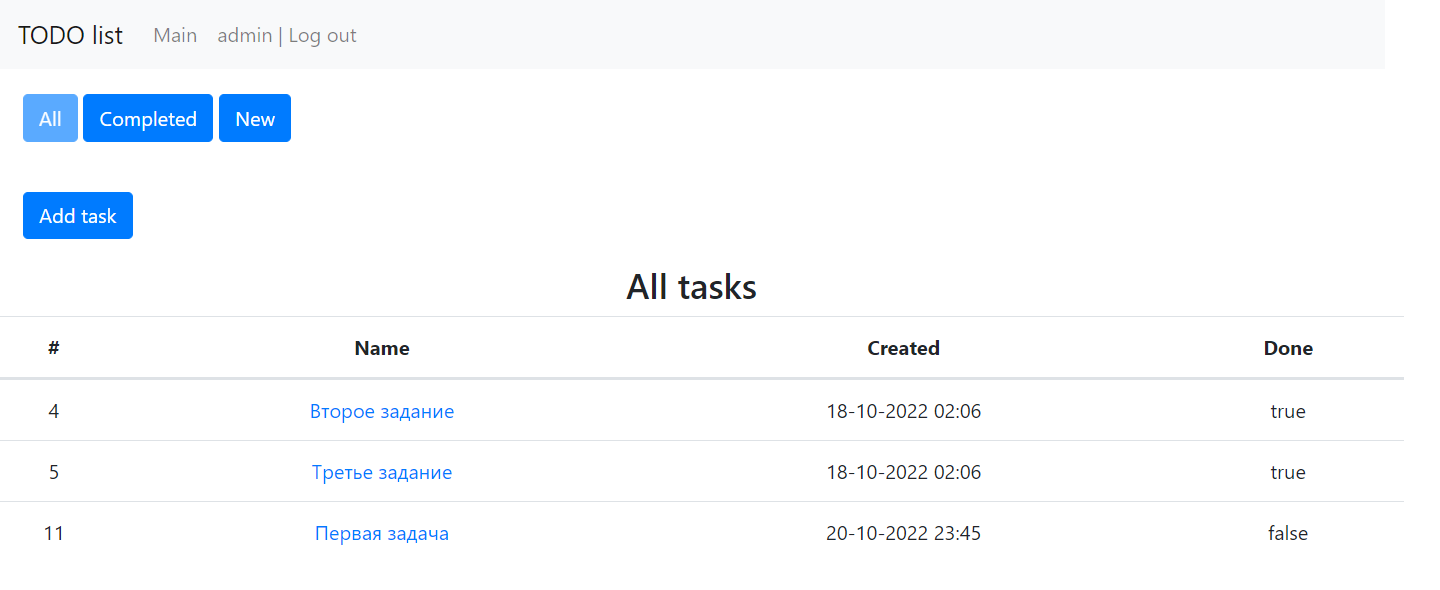
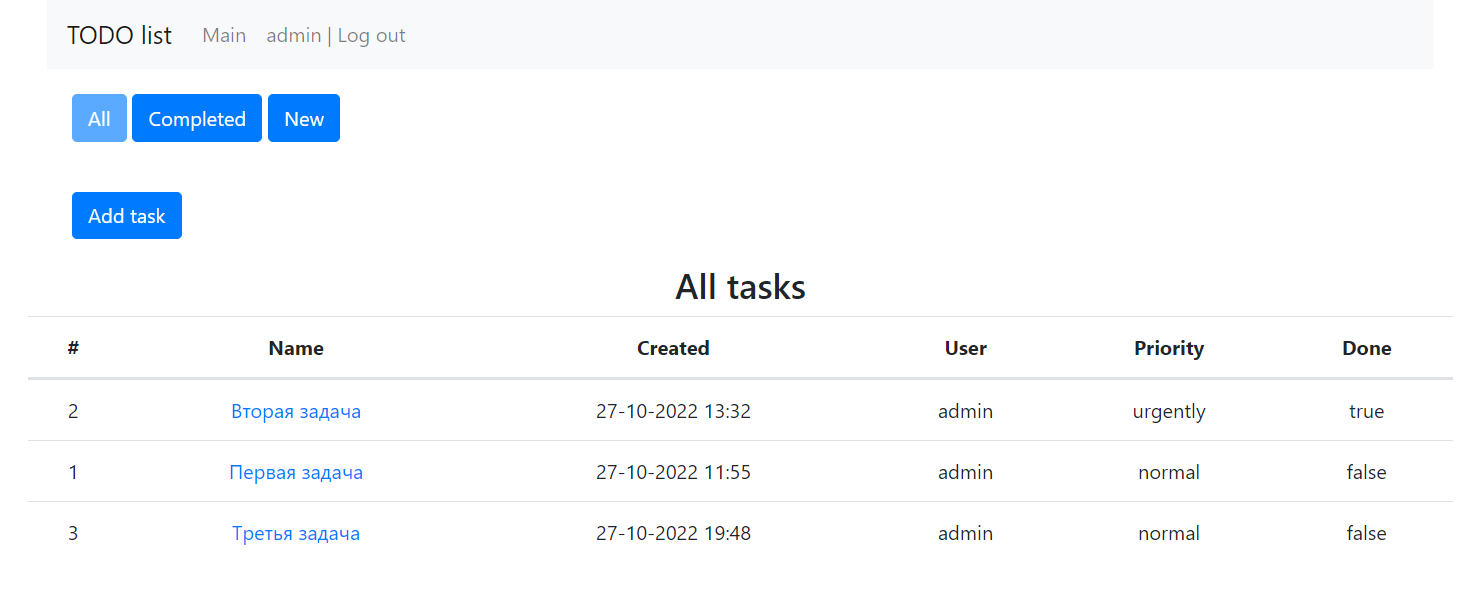
LazyInitializationexception

diff --git a/src/main/resources/templates/updateTask.html b/src/main/resources/templates/updateTask.html
@@ -54,6 +54,12 @@
                         <label for="description">Description</label>
                         <input type="text" class="form-control" name="description" id="description" th:field="*{description}">
                     </div>
+                    <div class="form-group">
+                        <label for="priority.id">Priority</label>
+                        <select class="form-control" id="priority.id" name="priority.id">
+                            <option th:each="priority : ${priorities}" th:value="${priority.id}" th:text="${priority.name}" th:selected="${priority.id==(task.priority != null ? task.priority.id : 0)}"></option>
+                        </select>
+                    </div>
                     <button type="submit" class="btn btn-primary">Update</button>
                 </form>
             </div>

diff --git a/src/main/resources/templates/index.html b/src/main/resources/templates/index.html
@@ -80,6 +80,7 @@
             <th scope="col" class="text-center">Name</th>
             <th scope="col" class="text-center">Created</th>
             <th scope="col" class="text-center">User</th>
+            <th scope="col" class="text-center">Priority</th>
             <th scope="col" class="text-center">Done</th>
         </tr>
         </thead>
@@ -91,6 +92,7 @@
             </td>
             <td th:text="${#temporals.format(task.created, 'dd-MM-yyyy HH:mm')}" class="text-center"/>
             <td th:text="${task.user != null} ? ${task.user.name} : 'null value!'" class="text-center"/>
+            <td th:text="${task.priority != null} ? ${task.priority.name} : 'null value!'" class="text-center"/>
             <td th:text="${task.done}" class="text-center"/>
         </tr>
         </tbody>

diff --git a/src/main/resources/templates/task.html b/src/main/resources/templates/task.html
@@ -57,12 +57,14 @@
             <tr>
                 <th scope="col" class="text-center">Description</th>
                 <th scope="col" class="text-center">Created</th>
+                <th scope="col" class="text-center">Priority</th>
                 <th scope="col" class="text-center">Done</th>
             </tr>
             </thead>
             <tbody>
             <td th:text="${task.description}" class="text-center"/>
             <td th:text="${#temporals.format(task.created, 'dd-MM-yyyy HH:mm')}" class="text-center"/>
+            <td th:text="${task.priority != null} ? ${task.priority.name} : 'null value!'" class="text-center"/>
             <td th:text="${task.done}" class="text-center"/>
             </tbody>
         </table>

diff --git a/src/main/resources/templates/addTask.html b/src/main/resources/templates/addTask.html
@@ -54,6 +54,12 @@
                         <label for="description">Description</label>
                         <input type="text" class="form-control" name="description" id="description">
                     </div>
+                    <div class="form-group">
+                        <label for="priority.id">Priority</label>
+                        <select class="form-control" id="priority.id" name="priority.id">
+                            <option th:each="priority : ${priorities}" th:value="${priority.id}" th:text="${priority.name}"></option>
+                        </select>
+                    </div>
                     <button type="submit" class="btn btn-primary">Save</button>
                 </form>
             </div>

diff --git a/src/main/java/ru/job4j/todo/controller/TaskController.java b/src/main/java/ru/job4j/todo/controller/TaskController.java
@@ -3,12 +3,10 @@ package ru.job4j.todo.controller;
 import lombok.AllArgsConstructor;
 import org.springframework.stereotype.Controller;
 import org.springframework.ui.Model;
-import org.springframework.web.bind.annotation.GetMapping;
-import org.springframework.web.bind.annotation.ModelAttribute;
-import org.springframework.web.bind.annotation.PathVariable;
-import org.springframework.web.bind.annotation.PostMapping;
+import org.springframework.web.bind.annotation.*;
 import ru.job4j.todo.model.Task;
 import ru.job4j.todo.model.User;
+import ru.job4j.todo.service.PriorityService;
 import ru.job4j.todo.service.TaskService;
 import ru.job4j.todo.utilits.UserSession;
 
@@ -21,18 +19,23 @@ public class TaskController {
 
     public TaskService taskService;
 
+    public PriorityService priorityService;
+
     @GetMapping("/addTask")
     public String addTask(Model model, HttpSession session) {
         User currentUser = UserSession.user(session);
         model.addAttribute("user", currentUser);
+        model.addAttribute("priorities", priorityService.findAll());
         model.addAttribute("task",
-                new Task(0, "Название", "Описание", LocalDateTime.now(), false, currentUser));
+                new Task(0, "Название", "Описание", LocalDateTime.now(), false, currentUser, null));
         return "addTask";
     }
 
     @PostMapping("/createTask")
-    public String createTask(@ModelAttribute Task task, HttpSession session) {
+    public String createTask(@ModelAttribute Task task, @RequestParam("priority.id") int priorityId,
+                             HttpSession session) {
         task.setCreated(LocalDateTime.now());
+        task.setPriority(priorityService.findById(priorityId));
         task.setUser(UserSession.user(session));
         taskService.add(task);
         return "redirect:/index";
@@ -82,11 +85,14 @@ public class TaskController {
     public String update(Model model, HttpSession session, @PathVariable("taskID") int taskID) {
         model.addAttribute("task", taskService.findById(taskID));
         model.addAttribute("user", UserSession.user(session));
+        model.addAttribute("priorities", priorityService.findAll());
         return "updateTask";
     }
 
     @PostMapping("/updateTask")
-    public String updateTask(Model model, HttpSession session, @ModelAttribute Task task) {
+    public String updateTask(Model model, HttpSession session, @RequestParam("priority.id") int priorityId,
+                             @ModelAttribute Task task) {
+        task.setPriority(priorityService.findById(priorityId));
         var rsl = taskService.update(task);
         if (rsl) {
             return String.format("redirect:/task/%s", task.getId());

diff --git a/src/main/java/ru/job4j/todo/store/TaskStore.java b/src/main/java/ru/job4j/todo/store/TaskStore.java
@@ -15,15 +15,17 @@ import java.util.Map;
 public class TaskStore {
     private final CrudRepository crudRepository;
 
-    private final static String SELECT = "SELECT t FROM Task t WHERE user = :fUser";
+    private final static String SELECT = "SELECT t FROM Task t JOIN FETCH t.priority WHERE t.user = :fUser";
     private final static String UPDATE = "UPDATE Task %s WHERE id = :fId";
     private final static String DELETE = "DELETE Task WHERE id = :fId";
-    private final static String SELECT_TRUE_DONE = String.format("%s AND done = true", SELECT);
-    private final static String SELECT_FALSE_DONE = String.format("%s AND done = false", SELECT);
+    private final static String SELECT_TRUE_DONE = String.format("%s AND t.done = true", SELECT);
+    private final static String SELECT_FALSE_DONE = String.format("%s AND t.done = false", SELECT);
+    private final static String SELECT_BY_ID = "SELECT t FROM Task t JOIN FETCH t.priority WHERE t.id = :fId";
     private final static String UPDATE_COMPLETE = String.format(UPDATE, "SET done = :fDone");
     private final static String UPDATE_NAME = String.format(UPDATE, """
                                                        SET name = :fName,
-                                                       description = :fDescription
+                                                       description = :fDescription,
+                                                       priority = :fPriority
                                                        """);
 
     public void add(Task task) {
@@ -43,7 +45,7 @@ public class TaskStore {
     }
 
     public Task findById(int taskId) {
-        return crudRepository.tx(session -> session.get(Task.class, taskId));
+        return crudRepository.optional(SELECT_BY_ID, Task.class, Map.of("fId", taskId)).orElse(null);
     }
 
     public List<Task> find(String query, User user) {
@@ -68,6 +70,7 @@ public class TaskStore {
             crudRepository.run(UPDATE_NAME,
                     Map.of("fName", task.getName(),
                             "fDescription", task.getDescription(),
+                            "fPriority", task.getPriority(),
                             "fId", task.getId()));
         } catch (Exception e) {
             rsl = false;

diff --git a/src/main/java/ru/job4j/todo/ToDoRun.java b/src/main/java/ru/job4j/todo/ToDoRun.java
@@ -1,0 +1,36 @@
+package ru.job4j.todo;
+
+import org.hibernate.Session;
+import org.hibernate.SessionFactory;
+import org.hibernate.boot.MetadataSources;
+import org.hibernate.boot.registry.StandardServiceRegistry;
+import org.hibernate.boot.registry.StandardServiceRegistryBuilder;
+import ru.job4j.todo.model.Task;
+
+import java.util.List;
+
+public class ToDoRun {
+    public static void main(String[] args) {
+        final StandardServiceRegistry registry = new StandardServiceRegistryBuilder()
+                .configure().build();
+        try {
+            SessionFactory sf = new MetadataSources(registry).buildMetadata().buildSessionFactory();
+            var stored = listOf("from Task t join fetch t.priority", Task.class, sf);
+            for (Task task : stored) {
+                System.out.println(task.getPriority());
+            }
+        }  catch (Exception e) {
+            e.printStackTrace();
+        } finally {
+            StandardServiceRegistryBuilder.destroy(registry);
+        }
+    }
+
+    public static <T> List<T> listOf(String query, Class<T> model, SessionFactory sf) {
+        Session session = sf.openSession();
+        var rsl = session.createQuery(query, model)
+                .getResultList();
+        session.close();
+        return rsl;
+    }
+}

diff --git a/src/main/java/ru/job4j/todo/store/PriorityStore.java b/src/main/java/ru/job4j/todo/store/PriorityStore.java
@@ -1,0 +1,29 @@
+package ru.job4j.todo.store;
+
+import lombok.AllArgsConstructor;
+import net.jcip.annotations.ThreadSafe;
+import org.springframework.stereotype.Repository;
+import ru.job4j.todo.model.Priority;
+import ru.job4j.todo.model.Task;
+
+import java.util.List;
+import java.util.Map;
+
+@ThreadSafe
+@Repository
+@AllArgsConstructor
+public class PriorityStore {
+    private final CrudRepository crudRepository;
+
+    private final static String SELECT = "SELECT p FROM Priority p";
+    private final static String SELECT_BY_ID = "SELECT p FROM Priority p WHERE p.id = :fId";
+
+    public List<Priority> findAll() {
+        return crudRepository.query(SELECT, Priority.class);
+    }
+
+    public Priority findById(int priorityId) {
+        return crudRepository.optional(SELECT_BY_ID, Priority.class,
+                Map.of("fId", priorityId)).orElse(null);
+    }
+}

diff --git a/src/main/java/ru/job4j/todo/service/PriorityService.java b/src/main/java/ru/job4j/todo/service/PriorityService.java
@@ -1,0 +1,22 @@
+package ru.job4j.todo.service;
+
+import lombok.AllArgsConstructor;
+import org.springframework.stereotype.Service;
+import ru.job4j.todo.model.Priority;
+import ru.job4j.todo.store.PriorityStore;
+
+import java.util.List;
+
+@Service
+@AllArgsConstructor
+public class PriorityService {
+    private final PriorityStore priorityStore;
+
+    public List<Priority> findAll() {
+        return priorityStore.findAll();
+    }
+
+    public Priority findById(int priorityId) {
+        return priorityStore.findById(priorityId);
+    }
+}

diff --git a/src/main/java/ru/job4j/todo/model/Priority.java b/src/main/java/ru/job4j/todo/model/Priority.java
@@ -1,0 +1,22 @@
+package ru.job4j.todo.model;
+
+import lombok.Data;
+import lombok.EqualsAndHashCode;
+
+import javax.persistence.*;
+
+@Data
+@EqualsAndHashCode(onlyExplicitlyIncluded = true)
+@Entity
+@Table(name = "priorities")
+public class Priority {
+
+    @Id
+    @GeneratedValue(strategy = GenerationType.IDENTITY)
+    @EqualsAndHashCode.Include
+    private int id;
+
+    private String name;
+
+    private int position;
+}

diff --git a/src/main/java/ru/job4j/todo/model/Task.java b/src/main/java/ru/job4j/todo/model/Task.java
@@ -26,4 +26,7 @@ public class Task {
     @ManyToOne
     @JoinColumn(name = "user_id")
     private User user;
+    @ManyToOne(fetch = FetchType.LAZY)
+    @JoinColumn(name = "priority_id")
+    private Priority priority;
 }
